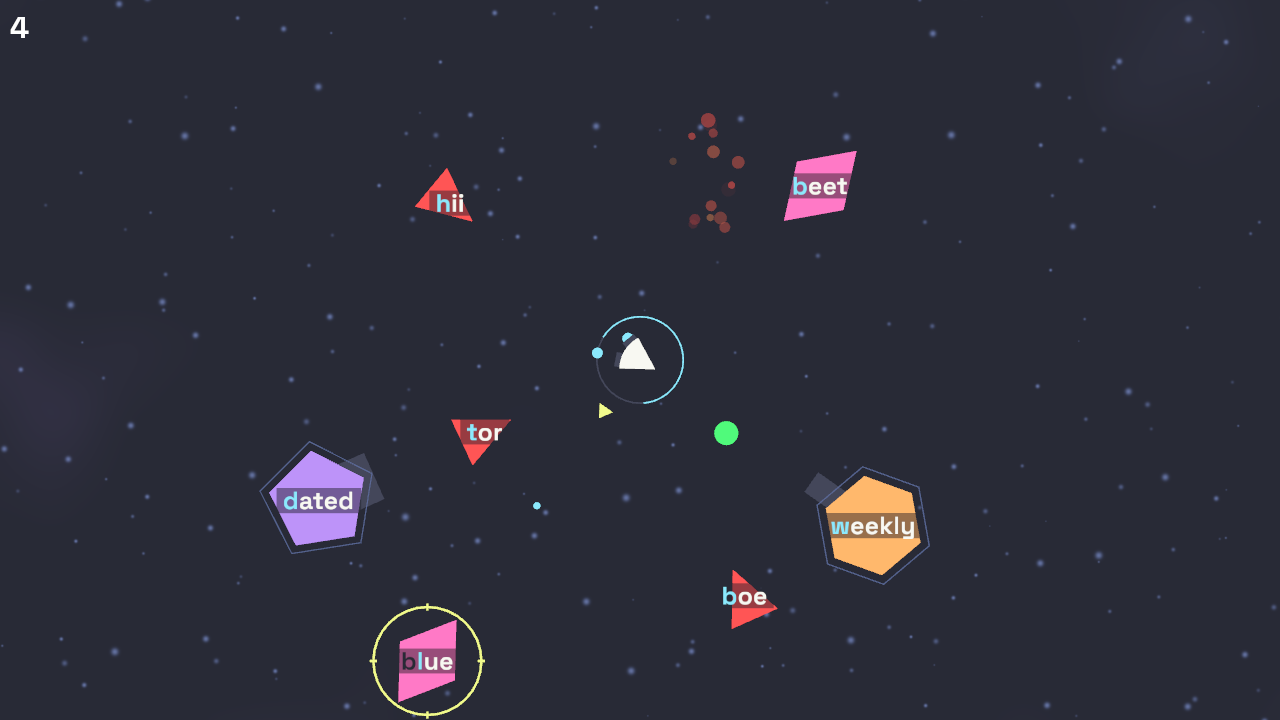
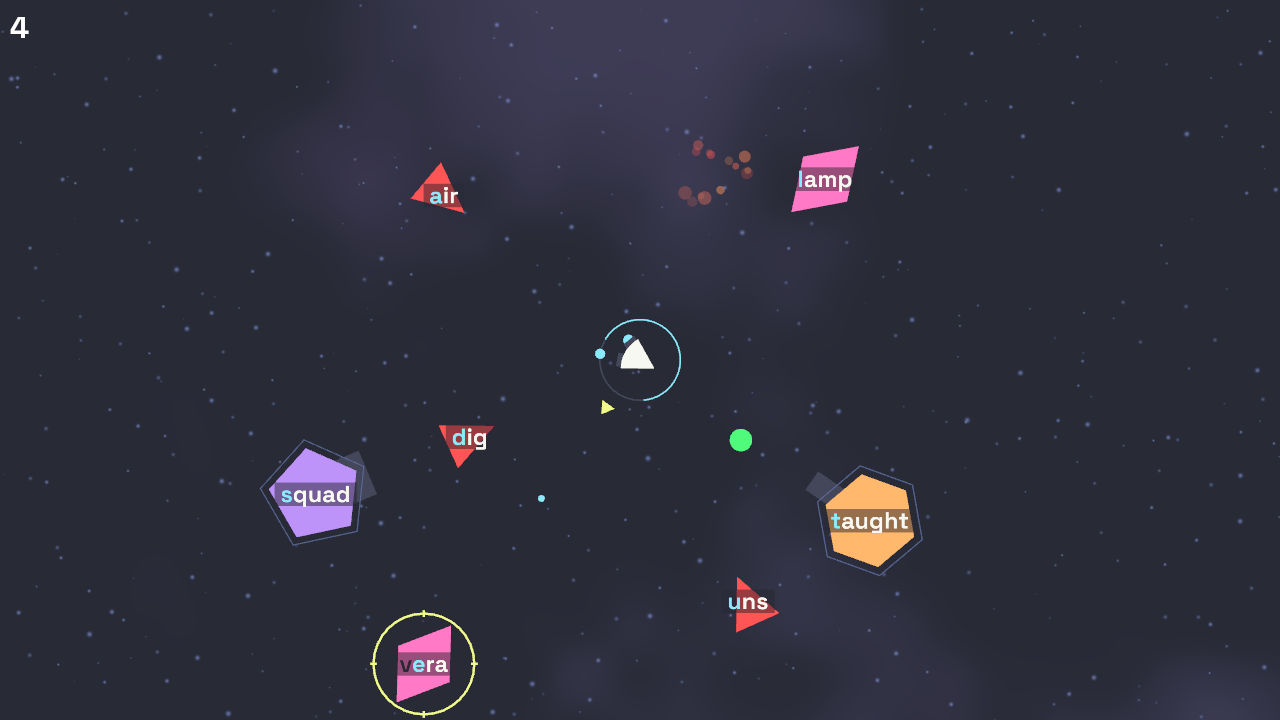
better binds and framing

diff --git a/src/main.rs b/src/main.rs
@@ -16,7 +16,6 @@ pub use palette::{CHANNELS, ColorField, ColorPalette, channel_u8, with_channel};
 
 use bevy::{
     asset::{RenderAssetUsages, embedded_asset},
-    input::common_conditions::input_just_pressed,
     prelude::*,
     render::render_resource::AsBindGroup,
     settings::{
@@ -40,7 +39,7 @@ const ONE_FOE: bool = cfg!(feature = "one_foe");
 const MIN_DELAY: bool = cfg!(feature = "min_delay");
 const TIME_MULTIPLIER: f32 = if cfg!(feature = "speedup") { 5. } else { 1. };
 
-const PLAYER_RADIUS: f32 = 50.;
+const PLAYER_RADIUS: f32 = 70.;
 const PLAYER_HALF_ANGLE: f32 = PI / 6.;
 const PLAYER_ENGINE_WIDTH: f32 = PLAYER_RADIUS / 2.5;
 const PLAYER_ENGINE_LENGTH: f32 = PLAYER_ENGINE_WIDTH / 2.;
@@ -130,7 +129,7 @@ const FUEL_PER_KEY: f32 = 0.01;
 const FUEL_PASSIVE_RATE: f32 = 0.01;
 
 const FOE_MAX_NUM_KEYS: usize = *SHAPE_NUM_KEYS.last().unwrap();
-const FOE_FONT_SIZE: f32 = 35.;
+const FOE_FONT_SIZE: f32 = PLAYER_RADIUS * 0.7;
 const FOE_AVOID_COUNT: usize = 10;
 const WORD_AVOID_RETRIES: usize = 10;
 const PENTAGON_SUMMON_WEIGHTS: [f32; 1] = [1.0];
@@ -257,7 +256,7 @@ const SUMMONER_Z_INDEX: f32 = 3.;
 const HEXAGON_Z_INDEX: f32 = 4.;
 const PLAYER_Z_INDEX: f32 = 6.;
 const INDICATOR_Z_INDEX: f32 = 7.;
-const VIEWPORT_HEIGHT: f32 = 1000.;
+const VIEWPORT_HEIGHT: f32 = 1500.;
 
 const SCORE_TEXT_PADDING: f32 = 10.;
 
@@ -303,7 +302,7 @@ impl Default for Config {
             right: KeyCode::KeyD,
             select: KeyCode::Space,
             back: KeyCode::Escape,
-            deselect: KeyCode::Backspace,
+            deselect: KeyCode::Space,
             rotate_left: KeyCode::ShiftLeft,
             rotate_right: KeyCode::ShiftRight,
             max_difficulty: false,
@@ -339,7 +338,56 @@ impl Config {
     }
 
     pub fn engine_firing(&self, keys: &ButtonInput<KeyCode>) -> bool {
-        keys.pressed(self.rotate_left) || keys.pressed(self.rotate_right)
+        self.left_thruster(keys) || self.right_thruster(keys)
+    }
+
+    pub fn left_thruster(&self, keys: &ButtonInput<KeyCode>) -> bool {
+        keys.any_pressed([self.rotate_left, KeyCode::ArrowLeft])
+    }
+
+    pub fn right_thruster(&self, keys: &ButtonInput<KeyCode>) -> bool {
+        keys.any_pressed([self.rotate_right, KeyCode::ArrowRight])
+    }
+
+    pub fn nav_up(&self, keys: &ButtonInput<KeyCode>) -> bool {
+        keys.any_just_pressed([self.up, KeyCode::ArrowUp])
+    }
+
+    pub fn nav_down(&self, keys: &ButtonInput<KeyCode>) -> bool {
+        keys.any_just_pressed([self.down, KeyCode::ArrowDown])
+    }
+
+    pub fn nav_left(&self, keys: &ButtonInput<KeyCode>) -> bool {
+        keys.any_just_pressed([self.left, KeyCode::ArrowLeft])
+    }
+
+    pub fn nav_right(&self, keys: &ButtonInput<KeyCode>) -> bool {
+        keys.any_just_pressed([self.right, KeyCode::ArrowRight])
+    }
+
+    pub fn nav_states(&self, keys: &ButtonInput<KeyCode>) -> ([bool; 4], [bool; 4]) {
+        let dirs = [
+            (self.up, KeyCode::ArrowUp),
+            (self.down, KeyCode::ArrowDown),
+            (self.left, KeyCode::ArrowLeft),
+            (self.right, KeyCode::ArrowRight),
+        ];
+        (
+            dirs.map(|(c, a)| keys.any_pressed([c, a])),
+            dirs.map(|(c, a)| keys.any_just_pressed([c, a])),
+        )
+    }
+
+    pub fn select_pressed(&self, keys: &ButtonInput<KeyCode>) -> bool {
+        keys.any_just_pressed([self.select, KeyCode::Enter])
+    }
+
+    pub fn back_pressed(&self, keys: &ButtonInput<KeyCode>) -> bool {
+        keys.any_just_pressed([self.back, KeyCode::Escape])
+    }
+
+    pub fn is_deselect(&self, code: KeyCode) -> bool {
+        code == self.deselect || code == KeyCode::Backspace
     }
 }
 
@@ -596,24 +644,17 @@ fn update_key_state(
     config: Res<Config>,
     mut key: ResMut<KeyState>,
     rtime: Res<Time<Real>>,
-    screen: Res<State<Screen>>,
-    game_screen: Res<State<GameScreen>>,
 ) {
-    let playing = matches!(screen.get(), Screen::Game)
-        && matches!(
-            game_screen.get(),
-            GameScreen::Running | GameScreen::ResumeCountdown
-        );
-    let mv = !playing;
+    let (held, just) = config.nav_states(&keys);
     key.update(
-        keys.pressed(KeyCode::ArrowUp) || (mv && keys.pressed(config.up)),
-        keys.pressed(KeyCode::ArrowDown) || (mv && keys.pressed(config.down)),
-        keys.pressed(KeyCode::ArrowLeft) || (mv && keys.pressed(config.left)),
-        keys.pressed(KeyCode::ArrowRight) || (mv && keys.pressed(config.right)),
-        keys.just_pressed(KeyCode::ArrowUp) || (mv && keys.just_pressed(config.up)),
-        keys.just_pressed(KeyCode::ArrowDown) || (mv && keys.just_pressed(config.down)),
-        keys.just_pressed(KeyCode::ArrowLeft) || (mv && keys.just_pressed(config.left)),
-        keys.just_pressed(KeyCode::ArrowRight) || (mv && keys.just_pressed(config.right)),
+        held[0],
+        held[1],
+        held[2],
+        held[3],
+        just[0],
+        just[1],
+        just[2],
+        just[3],
         rtime.delta_secs(),
     );
 }
@@ -631,6 +672,10 @@ fn in_menu(state: Res<State<Screen>>, game_state: Res<State<GameScreen>>) -> boo
         game_state.get(),
         GameScreen::Pause | GameScreen::End | GameScreen::Settings
     )
+}
+
+fn back_just_pressed(keys: Res<ButtonInput<KeyCode>>, config: Res<Config>) -> bool {
+    config.back_pressed(&keys)
 }
 
 fn game_plugin(app: &mut App) {
@@ -719,8 +764,7 @@ fn game_plugin(app: &mut App) {
         )
         .add_systems(
             Update,
-            toggle_pause
-                .run_if(input_just_pressed(KeyCode::Escape).and_then(in_state(Screen::Game))),
+            toggle_pause.run_if(back_just_pressed.and_then(in_state(Screen::Game))),
         )
         .add_systems(
             PostUpdate,

diff --git a/src/menu.rs b/src/menu.rs
@@ -1064,14 +1064,10 @@ pub fn grid_navigate(
     }
     let (sel_ent, sel_label) = *selected;
 
-    let right = keys.any_just_pressed([KeyCode::ArrowRight, config.right])
-        || (key.should_repeat && key.h == Some(true));
-    let left = keys.any_just_pressed([KeyCode::ArrowLeft, config.left])
-        || (key.should_repeat && key.h == Some(false));
-    let down = keys.any_just_pressed([KeyCode::ArrowDown, config.down])
-        || (key.should_repeat && key.v == Some(true));
-    let up = keys.any_just_pressed([KeyCode::ArrowUp, config.up])
-        || (key.should_repeat && key.v == Some(false));
+    let right = config.nav_right(&keys) || (key.should_repeat && key.h == Some(true));
+    let left = config.nav_left(&keys) || (key.should_repeat && key.h == Some(false));
+    let down = config.nav_down(&keys) || (key.should_repeat && key.v == Some(true));
+    let up = config.nav_up(&keys) || (key.should_repeat && key.v == Some(false));
 
     let captures_h = matches!(sel_label, Some(Label::Volume));
     if captures_h && (left || right) {
@@ -1129,14 +1125,13 @@ pub fn grid_action(
     if rebinding.kind.is_some() {
         return;
     }
-    let enter = keys.just_pressed(KeyCode::Enter);
-    let back = keys.just_pressed(config.back) || keys.just_pressed(KeyCode::Escape);
+    let back = config.back_pressed(&keys);
 
     let editing = input_focus
         .get()
         .filter(|&f| cells.get(f).map(|t| t.2.is_some()).unwrap_or(false));
     if let Some(focused) = editing {
-        if enter || back {
+        if config.select_pressed(&keys) || back {
             if back
                 && let Ok((_, _, Some(&ColorChannel { field, channel }), Some(mut editable), _)) =
                     cells.get_mut(focused)
@@ -1151,7 +1146,7 @@ pub fn grid_action(
 
     let action = if back && **game_screen != GameScreen::Pause {
         Some(Label::Back)
-    } else if enter || keys.just_pressed(config.select) {
+    } else if config.select_pressed(&keys) {
         let sel = cells.iter().find_map(|(e, _, _, _, s)| s.then_some(e));
         let mut label_action = None;
         if let Some(sel) = sel

diff --git a/src/screenshot.rs b/src/screenshot.rs
@@ -80,12 +80,12 @@ fn orchestrate(
             msg.write(GameMsg::Despawn(entity));
         }
 
-        let tri1 = Vec2::new(-290., 290.);
-        let rho1 = Vec2::new(270., 310.);
-        let tri2 = Vec2::new(160., -310.);
-        let rho2 = Vec2::new(-310., -390.);
-        let pent = Vec2::new(-460., -130.);
-        let hex = Vec2::new(310., -170.);
+        let tri1 = Vec2::new(-435., 435.);
+        let rho1 = Vec2::new(405., 465.);
+        let tri2 = Vec2::new(240., -465.);
+        let rho2 = Vec2::new(-465., -585.);
+        let pent = Vec2::new(-690., -195.);
+        let hex = Vec2::new(465., -255.);
 
         msg.write(GameMsg::SpawnFoe(
             Shape::Triangle,
@@ -122,11 +122,11 @@ fn orchestrate(
         msg.write(GameMsg::SpawnFoe(Shape::Pentagon, pent, None, None));
         msg.write(GameMsg::SpawnFoe(Shape::Hexagon, hex, None, None));
 
-        msg.write(GameMsg::Explosion(Vec2::new(100., 310.)));
+        msg.write(GameMsg::Explosion(Vec2::new(150., 465.)));
         stats.score = 4;
         stats.show(&mut score_text);
         msg.write(GameMsg::SpawnObstacle(
-            Vec2::new(180., -90.),
+            Vec2::new(270., -135.),
             Vec2::new(-0.843, 0.539),
         ));
     } else if stage == 1 && t >= 0.25 {

diff --git a/src/game.rs b/src/game.rs
@@ -406,7 +406,7 @@ pub fn keypress(
         if key.key_code == config.rotate_left || key.key_code == config.rotate_right {
             continue;
         }
-        if key.key_code == config.deselect || key.key_code == KeyCode::Space {
+        if config.is_deselect(key.key_code) {
             msg.write(GameMsg::Invisible(*indicator));
             msg.write(GameMsg::Invisible(*arrow_pivot));
             player.selection_active = false;
@@ -523,8 +523,8 @@ pub fn player_movement(
     let has_fuel = fuel.0 > 0. || INVINCIBLE;
     let active = stats.running && !time.is_paused() && has_fuel;
 
-    let left = active && keys.pressed(config.rotate_left);
-    let right = active && keys.pressed(config.rotate_right);
+    let left = active && config.left_thruster(&keys);
+    let right = active && config.right_thruster(&keys);
 
     let mut thrust = 0.;
     let mut spin = 0.;
@@ -1692,11 +1692,10 @@ pub fn update_launcher_ring(
     mut meshes: ResMut<Assets<Mesh>>,
     ring: Single<(&Mesh2d, &mut Visibility), With<LauncherRing>>,
     stats: Single<&Stats>,
-    time: Res<Time<Virtual>>,
 ) {
     let m = fuel.0;
     let (mesh2d, mut visibility) = ring.into_inner();
-    *visibility = if stats.running && !time.is_paused() && m > 0. {
+    *visibility = if stats.running && m > 0. {
         Visibility::Inherited
     } else {
         Visibility::Hidden